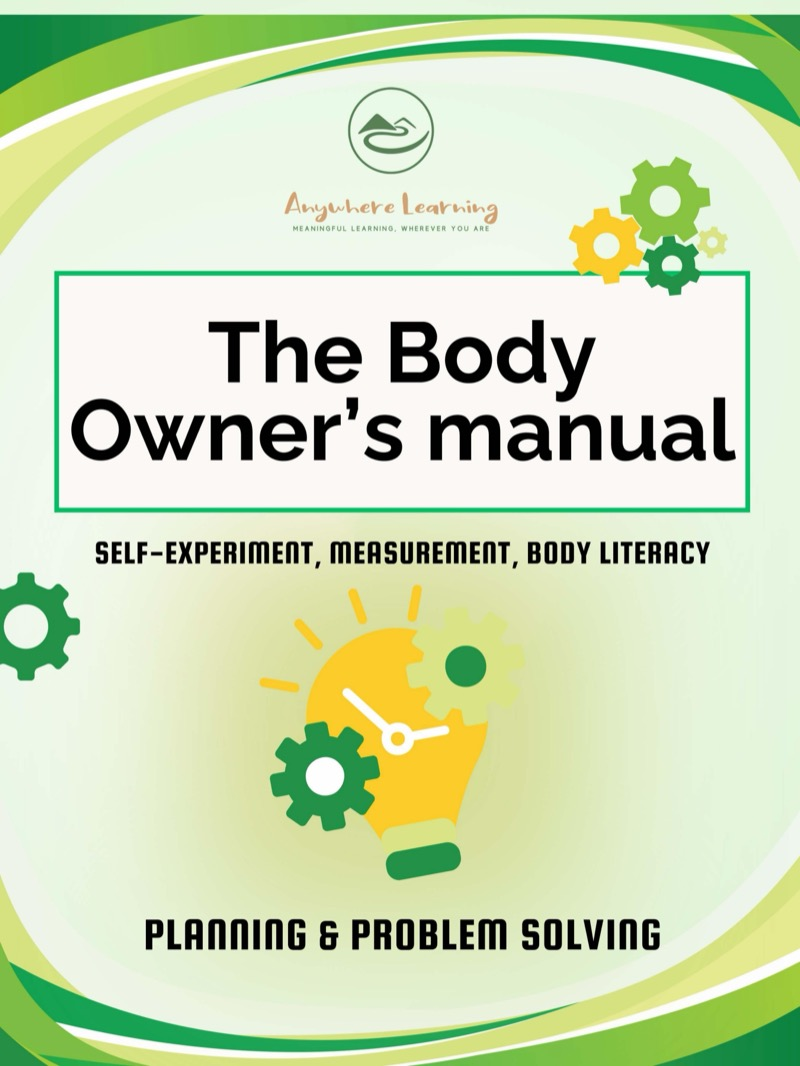
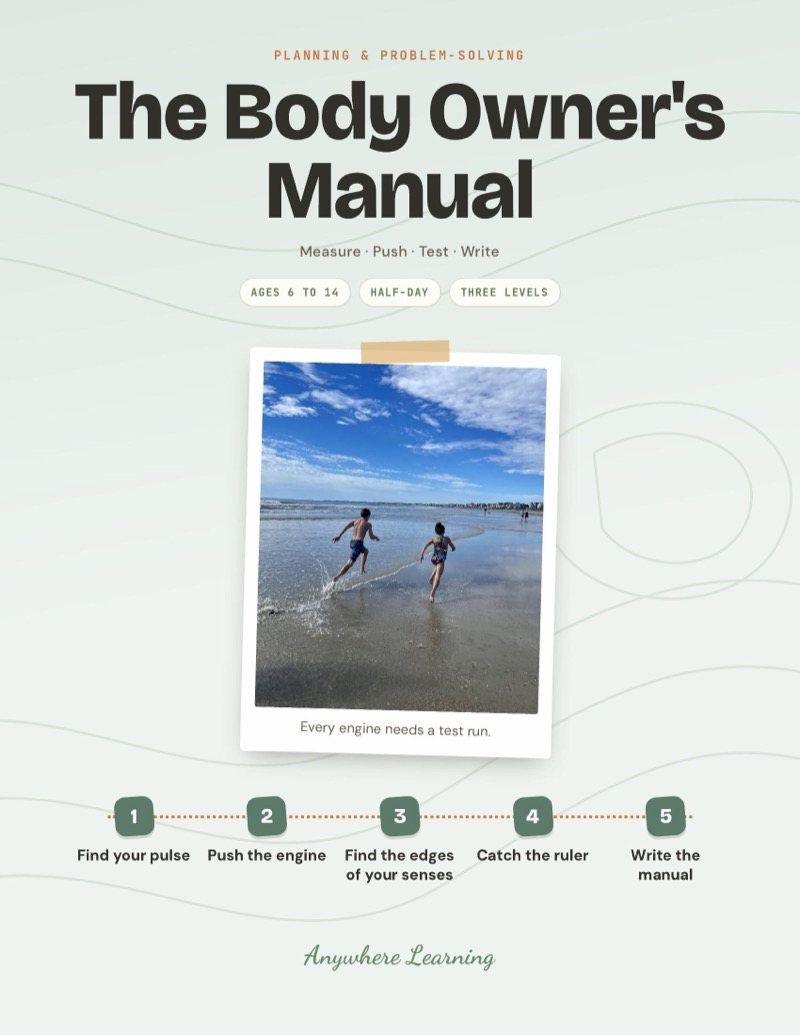
The Body Owner's Manual: redesigned guide, beach sprint photo, new listing

diff --git a/scripts/seed.ts b/scripts/seed.ts
@@ -171,7 +171,7 @@ async function seed() {
     { name: 'Kitchen Science Lab', slug: 'kitchen-science-lab', description: 'Your child solves a real chemistry mystery in the kitchen: five white powders that look almost the same. They make a colour-changing juice from red cabbage, run fair tests with water and vinegar, build a results table, then identify a secret powder you hand them, ruling suspects out one test at a time. Hands-on STEM science that teaches kids to think with evidence, not guesses.', shortDescription: 'Kitchen STEM science for kids ages 6-14: identify a mystery white powder with cabbage juice, fair tests and a results table.', priceCents: 599, compareAtPriceCents: null, stripePriceId: '', blobUrl: '', imageUrl: '/products/kitchen-science-lab.jpg', category: 'planning-problem-solving', isBundle: false, bundleProductIds: null, activityCount: null, ageRange: 'Ages 6–14', sortOrder: 42, active: true },
     { name: 'The Probability Lab', slug: 'probability-lab', description: 'Build a carnival game, work out the odds, set a price and prize, and see why the house always wins.', shortDescription: 'Real-world STEM maths: build a game of chance and crack the odds.', priceCents: 599, compareAtPriceCents: null, stripePriceId: '', blobUrl: '', imageUrl: '/products/probability-lab.jpg', category: 'real-world-math', isBundle: false, bundleProductIds: null, activityCount: null, ageRange: 'Ages 6–14', sortOrder: 115, active: true },
     { name: 'Secret Code Lab', slug: 'secret-code-lab', description: 'Your child learns to make and crack real codes. They break an easy one, find out how a key works, invent their own and fill in a code page, then crack a message with no key using the same clues real codebreakers use. To finish, they swap coded notes with someone for a week and see how the same idea keeps passwords and messages safe.', shortDescription: 'STEM logic for kids ages 6-14: crack and invent secret codes, break one with no key and see how keys keep passwords safe.', priceCents: 599, compareAtPriceCents: null, stripePriceId: '', blobUrl: '', imageUrl: '/products/secret-code-lab.jpg', category: 'planning-problem-solving', isBundle: false, bundleProductIds: null, activityCount: null, ageRange: 'Ages 6–14', sortOrder: 145, active: true },
-    { name: 'The Body Owner\'s Manual', slug: 'body-owners-manual', description: 'Run real self-experiments on your own body, from heart rate to reflexes, and compile a personal body manual.', shortDescription: 'STEM science: measure your own body and write its manual.', priceCents: 599, compareAtPriceCents: null, stripePriceId: '', blobUrl: '', imageUrl: '/products/body-owners-manual.jpg', category: 'planning-problem-solving', isBundle: false, bundleProductIds: null, activityCount: null, ageRange: 'Ages 6–14', sortOrder: 146, active: true },
+    { name: 'The Body Owner\'s Manual', slug: 'body-owners-manual', description: 'Your child writes the owner manual for the one machine they use every day: their own body. They find their pulse, push their heart and time how fast it comes back, find the edges of their senses and catch a falling ruler to measure their reaction time. Then they write it all up with their real numbers, ready to retest next month.', shortDescription: 'STEM science for kids ages 6-14: measure your pulse, recovery and reaction time, test your senses and write your body manual.', priceCents: 599, compareAtPriceCents: null, stripePriceId: '', blobUrl: '', imageUrl: '/products/body-owners-manual.jpg', category: 'planning-problem-solving', isBundle: false, bundleProductIds: null, activityCount: null, ageRange: 'Ages 6–14', sortOrder: 146, active: true },
     { name: 'Family History Detective', slug: 'family-history-detective', description: 'Interview an elder, build a family timeline and tree, and turn one memory into a story worth keeping.', shortDescription: 'Communication: interview an elder and save the family stories.', priceCents: 599, compareAtPriceCents: null, stripePriceId: '', blobUrl: '', imageUrl: '/products/family-history-detective.jpg', category: 'communication-writing', isBundle: false, bundleProductIds: null, activityCount: null, ageRange: 'Ages 6–14', sortOrder: 122, active: true },
     { name: 'Teach It to Learn It', slug: 'teach-it-to-learn-it', description: 'Master a skill by teaching it: break it down, plan a real lesson, and deliver it to a live student.', shortDescription: 'Communication: learn a skill deeply by teaching it for real.', priceCents: 599, compareAtPriceCents: null, stripePriceId: '', blobUrl: '', imageUrl: '/products/teach-it-to-learn-it.jpg', category: 'communication-writing', isBundle: false, bundleProductIds: null, activityCount: null, ageRange: 'Ages 6–14', sortOrder: 123, active: true },
     { name: 'Trade It Up', slug: 'trade-it-up', description: 'Trade one small object up through a chain of real swaps, learning negotiation and what things are really worth.', shortDescription: 'Entrepreneurship: trade a paperclip up, one swap at a time.', priceCents: 599, compareAtPriceCents: null, stripePriceId: '', blobUrl: '', imageUrl: '/products/trade-it-up.jpg', category: 'entrepreneurship', isBundle: false, bundleProductIds: null, activityCount: null, ageRange: 'Ages 6–14', sortOrder: 132, active: true },

diff --git a/lib/product-descriptions.ts b/lib/product-descriptions.ts
@@ -3172,27 +3172,27 @@ export const productDescriptions: Record<string, ProductDescription> = {
   },
   'body-owners-manual': {
     opening:
-      'Your child becomes the scientist of their own body, running real self-experiments: resting heart rate, reaction time, senses, reflexes, and quirks. They measure, record, and compile it all into a real body manual for the one machine they will use every day. Hands-on STEM science that turns body literacy into something they discovered, not something they were told.',
+      'Your child writes the owner manual for the one machine they use every day: their own body. They find their pulse, push their heart and time how fast it comes back, find the edges of their senses and catch a falling ruler to measure their reaction time. Then they write it all up with their real numbers, ready to retest next month.',
     whatsIncluded: [
-      'Take baseline body readings',
-      'Test the heart, reflexes, and reaction time',
-      'Run experiments on the senses',
-      'Find personal quirks and bests',
-      'Compile it all into a real body manual',
+      'A 5-step guide from a first pulse to a finished body manual',
+      'A worked example that turns one reading into a real experiment',
+      'Engine tests card and Sensor tests card',
+      'Control centre tests card and Quirks and bests card',
+      'My specs page for their own numbers',
     ],
     skillTags: ['STEM', 'Science', 'Measurement', 'Body Literacy', 'Data'],
     insideTheLearning: {
       lead:
-        'Your child runs experiments on their own body and trusts the readings over their assumptions. Pulse before and after exercise. What sleep does to the numbers. What food does. It is a fair test where they are both the scientist and the subject, and the data is theirs.',
+        'Your child learns that a reading on its own is just a number. Take it, change one thing and take it again, and now they know something about how their body works. They are the scientist and the subject, and every number in the manual is theirs.',
       skills: [
-        { skill: 'STEM', where: 'Designing a fair test on themselves and changing one variable at a time' },
-        { skill: 'Science', where: 'Seeing cause and effect directly as exercise, food and rest move the numbers' },
-        { skill: 'Measurement', where: 'Taking real readings off their own body and recording them accurately' },
-        { skill: 'Body Literacy', where: 'Learning how their own body actually behaves rather than how they assumed it did' },
-        { skill: 'Data', where: 'Building a record over time and reading the pattern that comes out of it' },
+        { skill: 'STEM', where: 'Running a fair test on themselves and changing one thing at a time' },
+        { skill: 'Science', where: 'Seeing the heart speed up and recover, and finding where each sense runs out' },
+        { skill: 'Measurement', where: 'Timing a pulse, counting breaths and reading a falling ruler' },
+        { skill: 'Body Literacy', where: 'Knowing their own resting heart rate, recovery time and quirks' },
+        { skill: 'Data', where: 'Taking three readings, keeping the middle one and comparing before and after' },
       ],
     },
-    format: 'Activity Guide',
+    format: 'Project Guide',
   },
   'family-history-detective': {
     opening:

diff --git a/lib/fallback-products.ts b/lib/fallback-products.ts
@@ -2897,15 +2897,15 @@ export const fallbackProducts: FallbackProduct[] = [
     name: "The Body Owner's Manual",
     slug: "body-owners-manual",
     description:
-      "Your child becomes the scientist of their own body, running real self-experiments: resting heart rate, reaction time, senses, reflexes, and quirks. They measure, record, and compile it all into a real owner's manual for the one machine they will use every day. Hands-on STEM science that turns body literacy into something they discovered, not something they were told.",
+      "Your child writes the owner manual for the one machine they use every day: their own body. They find their pulse, push their heart and time how fast it comes back, find the edges of their senses and catch a falling ruler to measure their reaction time. Then they write it all up with their real numbers, ready to retest next month.",
     shortDescription:
-      "STEM science for kids ages 6-14: run self-experiments on heart rate, reaction time, and the senses, and compile a body owner's manual.",
+      "STEM science for kids ages 6-14: measure your pulse, recovery and reaction time, test your senses and write your body manual.",
     priceCents: 599,
     compareAtPriceCents: null,
     stripePriceId: "",
     blobUrl: "",
     imageUrl: "/products/body-owners-manual.jpg",
-    previewFile: "Preview Planning & Problem-Solving THE BODY OWNER'S MANUAL.pdf",
+    previewFile: "Preview Planning & Problem-Solving THE BODY OWNER'S MANUAL v3.pdf",
     category: "planning-problem-solving",
     isBundle: false,
     bundleProductIds: null,

diff --git a/lib/activity-blob-urls.ts b/lib/activity-blob-urls.ts
@@ -16,7 +16,7 @@ export const ACTIVITY_BLOB_URLS: Record<string, string> = {
   "bias-fairness-lab": "https://xkj3tzlgu6ylgllk.public.blob.vercel-storage.com/AI%20%26%20Digital%20Literacy%20-%20BIAS%20%26%20FAIRNESS%20LAB%20v2.pdf",
   "big-feelings-lab": "https://xkj3tzlgu6ylgllk.public.blob.vercel-storage.com/Emotional%20%26%20Social%20Skills%20-%20The%20Big%20Feelings%20Lab%20v2.pdf",
   "board-game-studio": "https://xkj3tzlgu6ylgllk.public.blob.vercel-storage.com/Creativity%20%26%20Maker%20Board%20Game%20Studio%20v6.pdf",
-  "body-owners-manual": "https://xkj3tzlgu6ylgllk.public.blob.vercel-storage.com/Planning%20%26%20Problem-Solving%20THE%20BODY%20OWNER%27S%20MANUAL%20v2.pdf",
+  "body-owners-manual": "https://xkj3tzlgu6ylgllk.public.blob.vercel-storage.com/Planning%20%26%20Problem-Solving%20THE%20BODY%20OWNER%27S%20MANUAL%20v3.pdf",
   "boredom-toolkit": "https://xkj3tzlgu6ylgllk.public.blob.vercel-storage.com/Emotional%20%26%20Social%20Skills%20-%20The%20Boredom%20Toolkit%20v2.pdf",
   "brand-builder": "https://xkj3tzlgu6ylgllk.public.blob.vercel-storage.com/Entrepreneurship%20-%20Brand%20builder%20v2.pdf",
   "budget-challenge": "https://xkj3tzlgu6ylgllk.public.blob.vercel-storage.com/Real-world%20math%20-%20Real-Life%20Budget%20Challenge%20v8.pdf",
